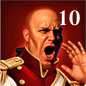
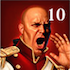
Shrink images from 86x86 to 70x70

diff --git a/setup/BoardLayout.java b/setup/BoardLayout.java
@@ -23,7 +23,7 @@ public class BoardLayout extends JPanel {
 		//this.setBorder(BorderFactory.createEmptyBorder(2,2,2,2));
 		//this.setBorder(BorderFactory.createLineBorder(Color.BLACK));
 
-		Dimension size = new Dimension(86, 86);
+		Dimension size = new Dimension(70, 70);
 		for(int i = 0; i < 10; i++) {
 			for(int j = 0; j < 10; j++) {
 				cells[i][j] = new JLabel();
@@ -40,7 +40,7 @@ public class BoardLayout extends JPanel {
 		int row = y*10/this.getHeight();
 		int col = x*10/this.getWidth();
 
-		// If invalid placement, return null
+		// If invalid placement, return false
 		if(row < 6 || row > 9 || col < 0 || col > 9) {
 			return false;
 		}
